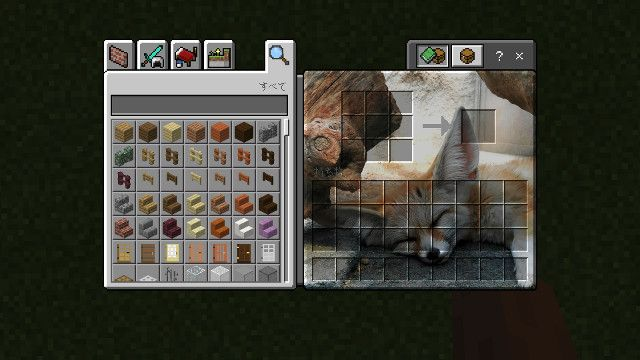
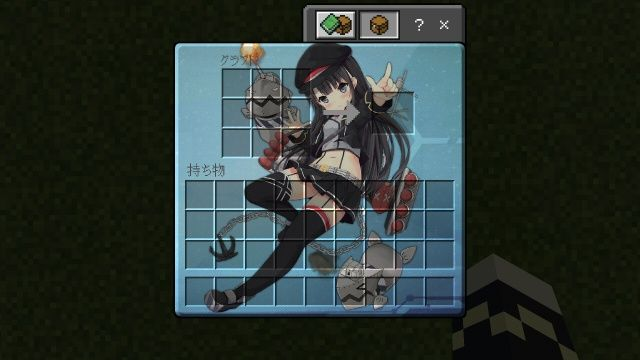
BackImageGUI - 1.3.0

diff --git a/html/distributions/backimage_gui.html b/html/distributions/backimage_gui.html
@@ -23,35 +23,73 @@
       <div class="card__image--title"> <img src="../../image/distributions/backimage_gui/cover_image.jpg"> </div>
       <p class="card__title">BackImageGUI</p>
       <p class="card__text">GUIの背景を画像に変更できるようになるリソースパックです</p>
+      <p class="card__text">replaceモードやoverlayモードなどの画像置き換え時の挙動を変更することができます</p>
     </div>
     <div class="card">
       <p class="card__title">機能</p>
       <p class="card__text">1.GUIの画像を画像に変更できるようになります</p>
+      <p class="card__text">2._global_variables.jsonを編集することで画像置き換え時の挙動を変更できます</p>
+      <p class="card__subtitle">各種モード</p>
+      <p class="card__text">replaceモード: GUIの背景を画像に置き換えます</p>
+      <p class="card__text">overlayモード: 半透明(alpha:0.6)の画像をGUIの上に被せます(インベントリの画像を合成させる必要がありません)</p>
+      <p class="card__text">backgroundモード: GUIの後ろに画像を置きます</p>
+      <p class="card__text">disableモード: 画像を非表示にします</p>
     </div>
     <div class="card">
       <p class="card__title">動作環境</p>
-      <p class="card__text">Minecraft : 1.2.5.52 ~ 1.2.9.1(で確認)</p>
+      <p class="card__text">Minecraft : 1.2.10.2(で確認)</p>
       <p class="card__text">他のバージョンでも使用できる場合や使用できない場合があります</p>
     </div>
     <div class="card">
       <p class="card__title">ダウンロード</p>
-      <p class="card__text">最新バージョン: 1.2.2</p>
-      <a class="card__button" href="https://www.mediafire.com/download/zw9imi6ub7cv6a9">mcpack</a>
-      <a class="card__button" href="https://www.mediafire.com/download/9pdy3a9qeit0a19">zip</a>
+      <p class="card__text">最新バージョン: 1.3.0</p>
+      <p class="card__text">ファイルをダウンロードした時点で<a href="../terms_of_use.html">利用規約</a>に同意したことになります</p>
+      <a class="card__button" href="https://www.mediafire.com/download/eeidmmpri1ae38m">mcpack</a>
+      <a class="card__button" href="https://www.mediafire.com/download/ol264ak0nt322kv">zip</a>
     </div>
-    <div class="card">
+    <div class="card" id="screenshot">
       <p class="card__title">スクリーンショット</p>
       <div class="card__image"><img src="../../image/distributions/backimage_gui/screenshot_1.jpg"></div>
-      <p class="card__text">作業台の背景画像を変更したときの作業台</p>
       <div class="card__image"><img src="../../image/distributions/backimage_gui/screenshot_2.jpg"></div>
-      <p class="card__text">ホッパーの背景画像を変更したときのホッパー</p>
+      <p class="card__text">replaceモード時の作業台(角を丸くしたい場合は画像編集ソフトで角を編集してください)</p>
+      <p class="card__text">ベースにR3DCraft 画像はアズールレーン(Azur Lane)のZ19を使用しています</p>
+      <div class="card__image"><img src="../../image/distributions/backimage_gui/screenshot_3.jpg"></div>
+      <div class="card__image"><img src="../../image/distributions/backimage_gui/screenshot_4.jpg"></div>
+      <p class="card__text">overlayモード時の作業台(画像は適切なアスペクト比に切り抜く必要があります)</p>
+      <p class="card__text">画像はアズールレーン(Azur Lane)のZ19を使用しています</p>
+      <div class="card__image"><img src="../../image/distributions/backimage_gui/screenshot_5.jpg"></div>
+      <div class="card__image"><img src="../../image/distributions/backimage_gui/screenshot_6.jpg"></div>
+      <p class="card__text">backgroundモード時の作業台(画像は使用している端末の画面アスペクト比に合わせる必要があります)</p>
+      <p class="card__text">画像はアズールレーン(Azur Lane)のZ19を使用しています(GUIで隠れてしまうため少し右にずらしています)</p>
+      <div class="card__image"><img src="../../image/distributions/backimage_gui/screenshot_7.jpg"></div>
+      <p class="card__text">disableモード時の作業台</p>
     </div>
     <div class="card">
       <p class="card__title">使い方</p>
-      <p class="card__text">Coming soon...</p>
+      <p class="card__title">Android</p>
+      <p class="card__subtitle">インストール</p>
+      <p class="card__text">まずダウンロードのmcpackを押し、真ん中に出てきた緑色のダウンロードボタンを押して、ファイルをダウンロードしてください</p>
+      <p class="card__text">ダウンロードが終わったら、ファイルマネージャーでダウンロードしたファイルを押し、Minecraftで開いてください</p>
+      <p class="card__text">Minecraftで開きインポート成功と出たら、設定→グローバルリソース 利用可能なリソースパックの中にあるBackImageGUIを押しプラスを押して、使用中のパックに移動したらMinecraftを再起動してください</p>
+      <div class="card__image"><img src="../../image/distributions/backimage_gui/howto_1.jpg"></div>
+      <p class="card__text">スタート画面がこのような画面になっていればインストール成功です</p>
+      <p class="card__subtitle">画像準備</p>
+      <p class="card__text">Coming soon…</p>
     </div>
     <div class="card">
       <p class="card__title">更新履歴</p>
+      <p class="card__subtitle">1.3.0</p>
+      <p class="card__text">ベースのjsonを1.2.10.2に更新</p>
+      <p class="card__text">_global_variables.jsonを編集し画像置き換え時の挙動を変更できるように</p>
+      <p class="card__text">replaceモードを追加</p>
+      <p class="card__text">overlayモードを追加</p>
+      <p class="card__text">backgroundモードを追加</p>
+      <p class="card__text">disableモードを追加</p>
+      <p class="card__text">replaceモード時GUIの白い背景が透明になるように</p>
+      <p class="card__text">Chestに対応</p>
+      <p class="card__text">startスクリーンのUIを変更</p>
+      <p class="card__text">resolution.txtにアスペクト比を追加</p>
+      <a class="card__button" href="hhhahahsa">1.3.0</a>
       <p class="card__subtitle">1.2.2</p>
       <p class="card__text">クラフトのレシピ選択時所持していないアイテムのスロットが赤くならない不具合の修正</p>
       <a class="card__button" href="https://www.mediafire.com/folder/76mx31f3r55rw/1.2.2">1.2.2</a>
